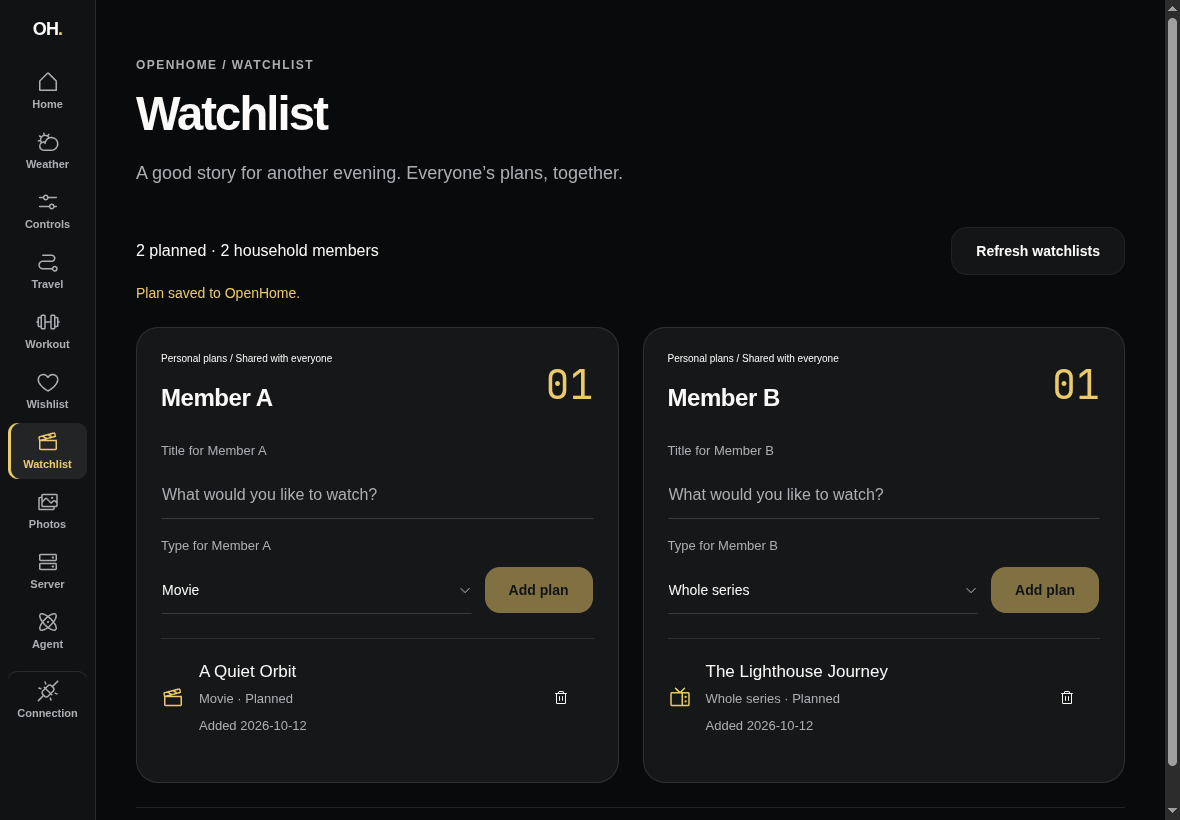
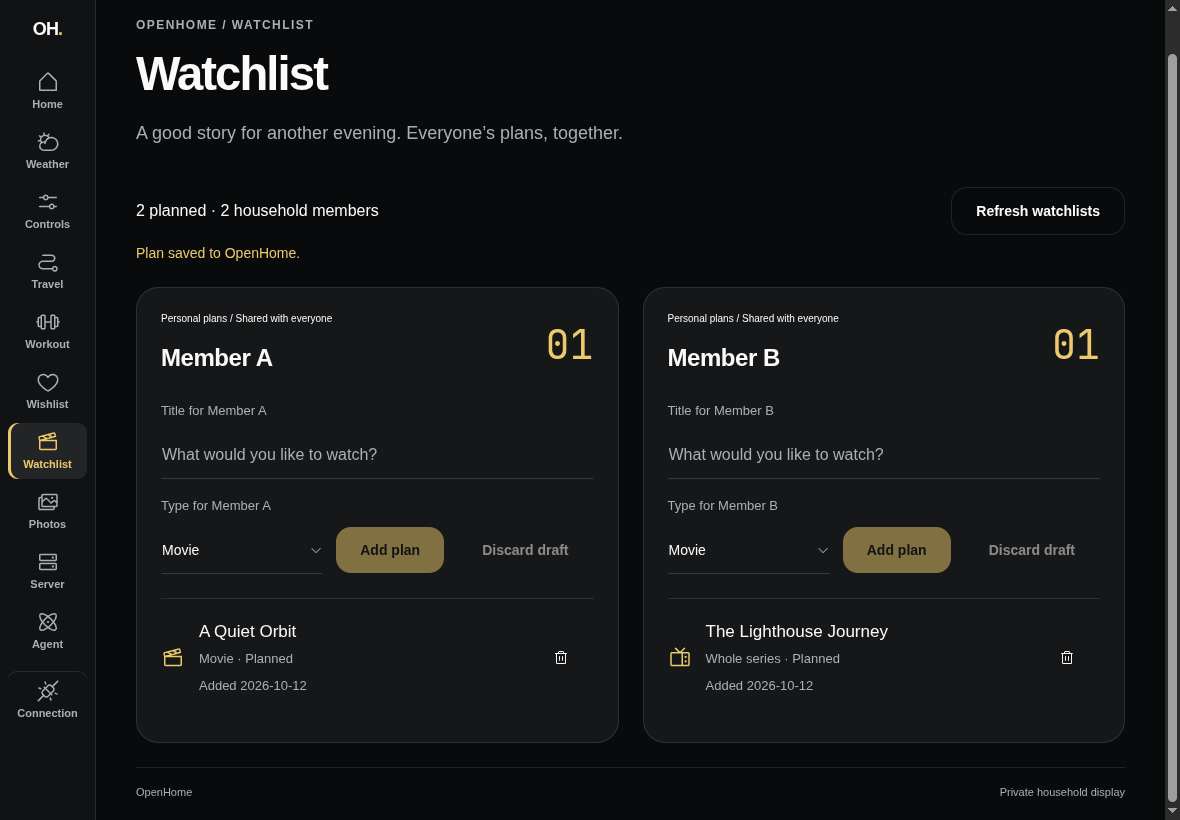
fix(watchlist): recover discarded retries and disclose member removal

diff --git a/dashboard/tests/watchlists.test.tsx b/dashboard/tests/watchlists.test.tsx
@@ -313,4 +313,51 @@ test("a dropped accepted addition retains owner, whole-series kind and request I
   expect(requests[0]).toBe(requests[1])
   expect((await available()).entries).toHaveLength(1)
   expect(container.textContent).toContain("Plan saved to OpenHome")
+
+  // A second intention loses its response, then another client removes the accepted entry.
+  drop = true
+  await add("Member A", "The Lighthouse Journey")
+  expect(container.textContent).toContain("The response was lost")
+
+  const removed = (await available()).entries.find(
+    (entry) => entry.title === "The Lighthouse Journey"
+  )
+
+  if (removed === undefined)
+    throw new Error("Expected accepted plan before remote removal")
+
+  await writeWatchlist({
+    action: "remove",
+    owner_id: removed.owner_id,
+    entry_id: removed.id,
+  })
+  await act(async () => root.unmount())
+  root = createRoot(container)
+  await render()
+  await add("Member A", "The Lighthouse Journey")
+  expect(container.textContent).toContain("its entry was removed")
+  await click("Refresh watchlists")
+  await add("Member A", "The Lighthouse Journey")
+  expect(requests[2]).toBe(requests[3])
+  expect(requests[2]).toBe(requests[4])
+  expect((await available()).entries).toHaveLength(1)
+
+  const form = container.querySelector(
+    'form[aria-label="Add plan for Member A"]'
+  )
+
+  if (form === null) throw new Error("Expected retry form")
+
+  await click("Discard draft", form)
+  expect(field("Title for Member A").value).toBe("")
+  expect(sessionStorage.length).toBe(0)
+  await add("Member A", "The Lighthouse Journey")
+  expect(requests[5]).not.toBe(requests[2])
+  const plans = (await available()).entries
+
+  expect(plans).toHaveLength(2)
+  expect(
+    plans.find((entry) => entry.title === "The Lighthouse Journey")
+  ).toMatchObject({ kind: "series" })
+  expect(container.textContent).toContain("Plan saved to OpenHome")
 })

diff --git a/dashboard/tests/wishlists.test.tsx b/dashboard/tests/wishlists.test.tsx
@@ -34,6 +34,7 @@ import type {
 } from "@/lib/wishlist"
 
 import { startAxumFixture } from "./support/axum-fixture"
+import { readWatchlists, writeWatchlist } from "@/lib/watchlist.server"
 
 let fixture: Awaited<ReturnType<typeof startAxumFixture>>
 
@@ -264,6 +265,40 @@ test("renders owner-aware CRUD, failed edits and confirmation against migrated a
   await render()
   expect(container.textContent).toContain("Member C")
   expect(container.textContent).toContain("Member B")
+
+  const member = (await available()).owners.find(
+    (owner) => owner.name === "Member C"
+  )
+
+  if (member === undefined) throw new Error("Expected Member C")
+
+  await writeWatchlist({
+    action: "add",
+    owner_id: member.id,
+    kind: "movie",
+    title: "A Quiet Orbit",
+    request_id: crypto.randomUUID(),
+  })
+  await click("Remove Member C")
+  expect(document.querySelector('[role="alertdialog"]')?.textContent).toContain(
+    "wishlists, wishes and watchlist entries"
+  )
+  await click("Keep it")
+  const retained = await readWatchlists()
+
+  expect(
+    retained.state === "available" ? retained.entries.length : undefined
+  ).toBe(1)
+  await click("Remove Member C")
+  await click("Remove permanently")
+  const remaining = await readWatchlists()
+
+  expect(
+    remaining.state === "available" ? remaining.entries : undefined
+  ).toEqual([])
+  expect((await available()).owners.map((owner) => owner.name)).toEqual([
+    "Member B",
+  ])
 })
 
 test("URL suggestions remain editable and only save on explicit addition", async () => {

diff --git a/dashboard/src/components/watchlists.tsx b/dashboard/src/components/watchlists.tsx
@@ -166,7 +166,11 @@ export function Watchlists({
             )
 
             return (
-              <Card key={owner.id} aria-label={`${owner.name}’s watchlist`}>
+              <Card
+                key={owner.id}
+                role="group"
+                aria-label={`${owner.name}’s watchlist`}
+              >
                 <CardHeader>
                   <div className="watchlist-owner-heading">
                     <div>
@@ -428,6 +432,18 @@ function AddPlan({
         </div>
         <Button type="submit" disabled={disabled || title === ""}>
           Add plan
+        </Button>
+        <Button
+          type="button"
+          variant="ghost"
+          disabled={disabled || title === ""}
+          onClick={() => {
+            pending.current = undefined
+            storePending(ownerId, undefined)
+            setTitle("")
+          }}
+        >
+          Discard draft
         </Button>
       </div>
     </form>

diff --git a/dashboard/src/components/wishlists.tsx b/dashboard/src/components/wishlists.tsx
@@ -534,7 +534,7 @@ export function Wishlists({
                         command: { kind: "remove-owner", owner_id: owner.id },
                         title: `Remove ${owner.name}?`,
                         description:
-                          "This removes the household member and all their wishlists and wishes. This cannot be undone.",
+                          "This removes the household member and all their wishlists, wishes and watchlist entries. This cannot be undone.",
                       })
                     }
                   >

diff --git a/docs/watchlists.md b/docs/watchlists.md
@@ -60,10 +60,17 @@ recreating removed plans. Back up the main database including
 Dashboard saves unconfirmed additions in tab-local session storage before dispatch,
 preserving owner, kind, normalized title and request ID across refresh. When browser
 storage is unavailable, mounted forms retain the same in-memory retry intention.
-Only a parsed API receipt clears it. Removal requires confirmation, names its owner,
+Only a parsed API receipt or explicit **Discard draft** clears it. If another
+client removes a plan whose addition response was lost, ordinary retries keep its
+retired ID and return conflict. Discard the draft and re-enter the title to make
+a new intentional addition with a fresh ID. Removal requires confirmation, names its owner,
 and refreshes from Axum; a failed removal keeps the dialog open. Incomplete reads
 show recovery controls instead of an empty household. After an uncertain removal,
 read its destination before retrying.
+
+Removing a Household User in Wishlist also removes all their watchlist entries.
+The member-removal dialog discloses both Wishlist and Watchlist deletion; accepted
+addition receipts remain retired.
 
 Reads are annotated read-only; deduplicated additions are non-destructive and
 idempotent; removals are destructive and idempotent. All training tools retain

diff --git a/docs/wishlists.md b/docs/wishlists.md
@@ -102,7 +102,7 @@ household configuration, without passwords or an active-user selector.
 | Authenticated Axum operation | Body / behavior |
 | --- | --- |
 | `PATCH /api/household-users/{owner_id}` | `{"name":"Member A"}`; preserve ID |
-| `DELETE /api/household-users/{owner_id}` | Remove member, their lists and items |
+| `DELETE /api/household-users/{owner_id}` | Remove member, their wishlists, wishes and watchlist entries |
 | `PATCH /api/household-users/{owner_id}/wishlists/{list_id}` | `{"name":"Outdoors"}`; preserve owner and ID |
 | `DELETE /api/household-users/{owner_id}/wishlists/{list_id}` | Remove this owner's list and all its items |
 | `PATCH /api/household-users/{owner_id}/wishlists/{list_id}/items/{item_id}` | `{"title":"A warm jacket"}`; preserve destination and ID |
